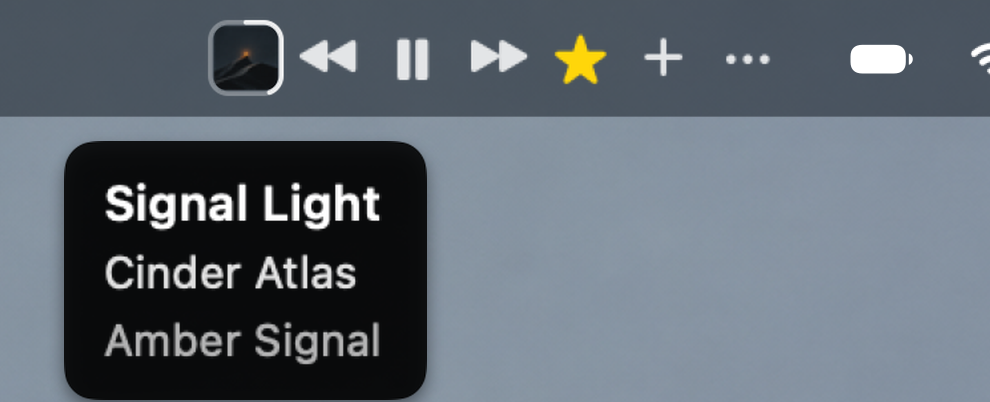
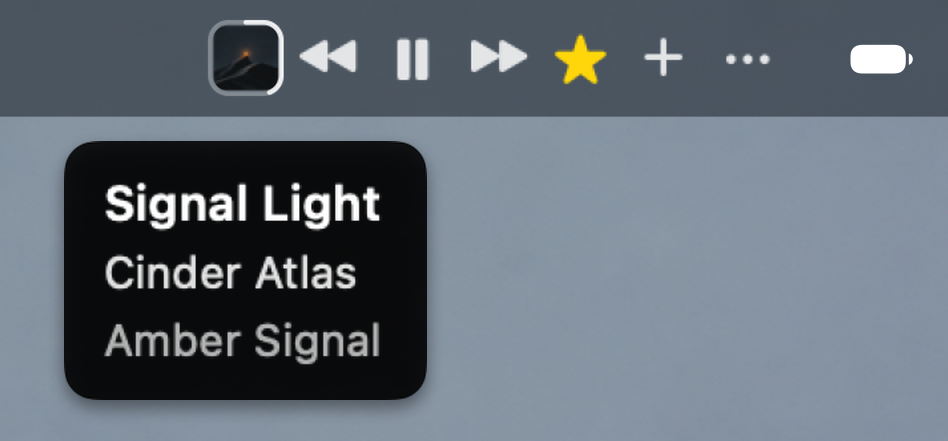
Refine the menu bar image framing

Changed region(s): [[0.0, 0.0299, 1.0, 1.0], [0.8565, 0.0896, 1.0, 0.209]]

diff --git a/index.html b/index.html
@@ -50,7 +50,7 @@
       </article>
       <article class="feature">
         <div class="feature-image menu-preview">
-          <img src="images/menu-bar-player.png" width="990" height="402"
+          <img src="images/menu-bar-player.png" width="948" height="441"
             alt="Menu bar controls with the current track details shown underneath">
         </div>
         <div class="feature-copy">
